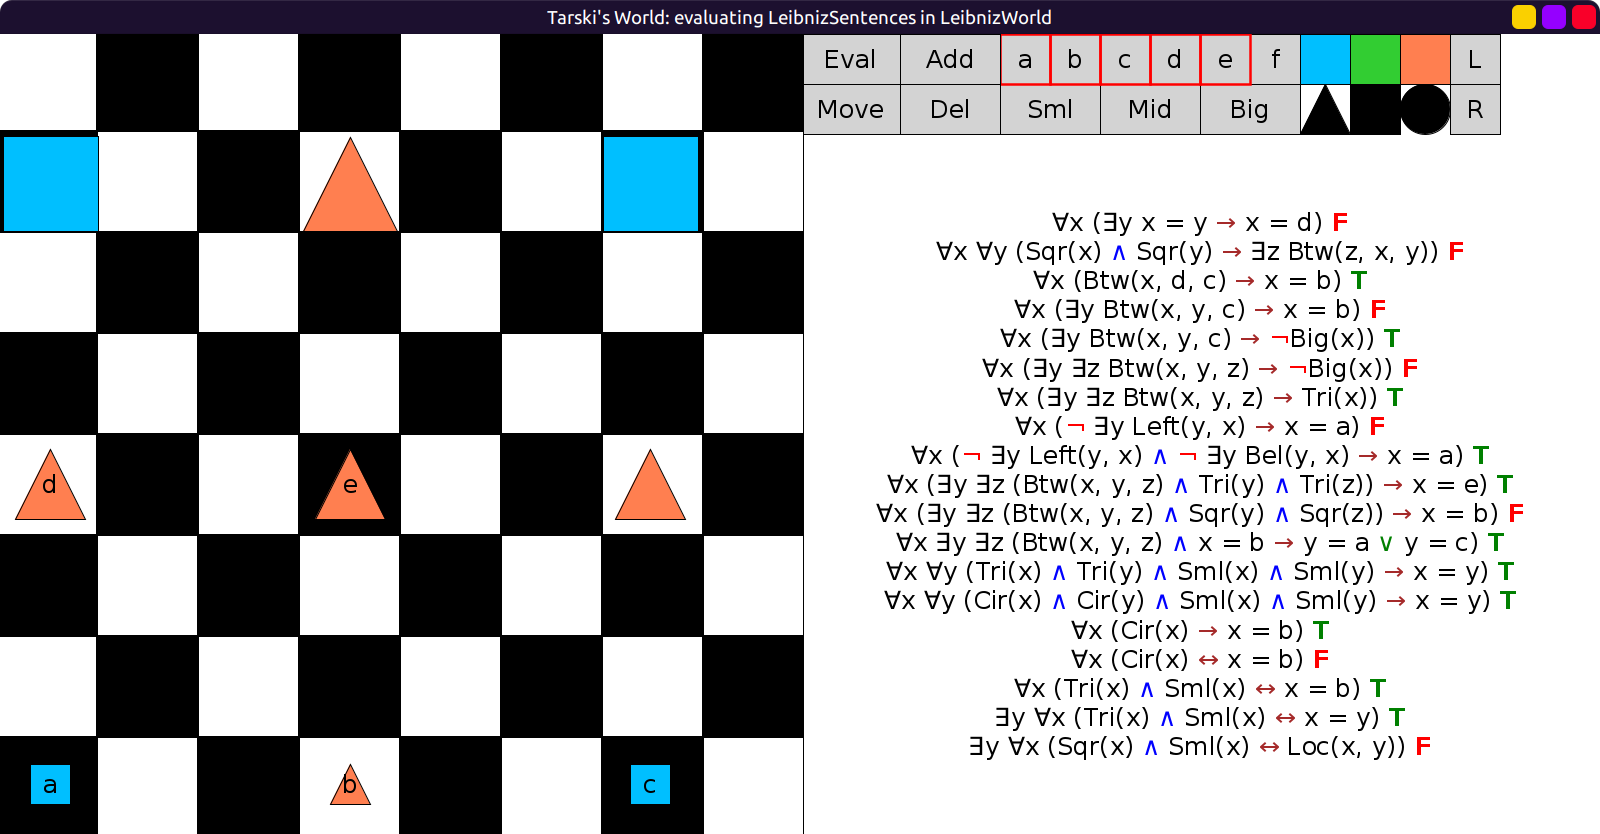
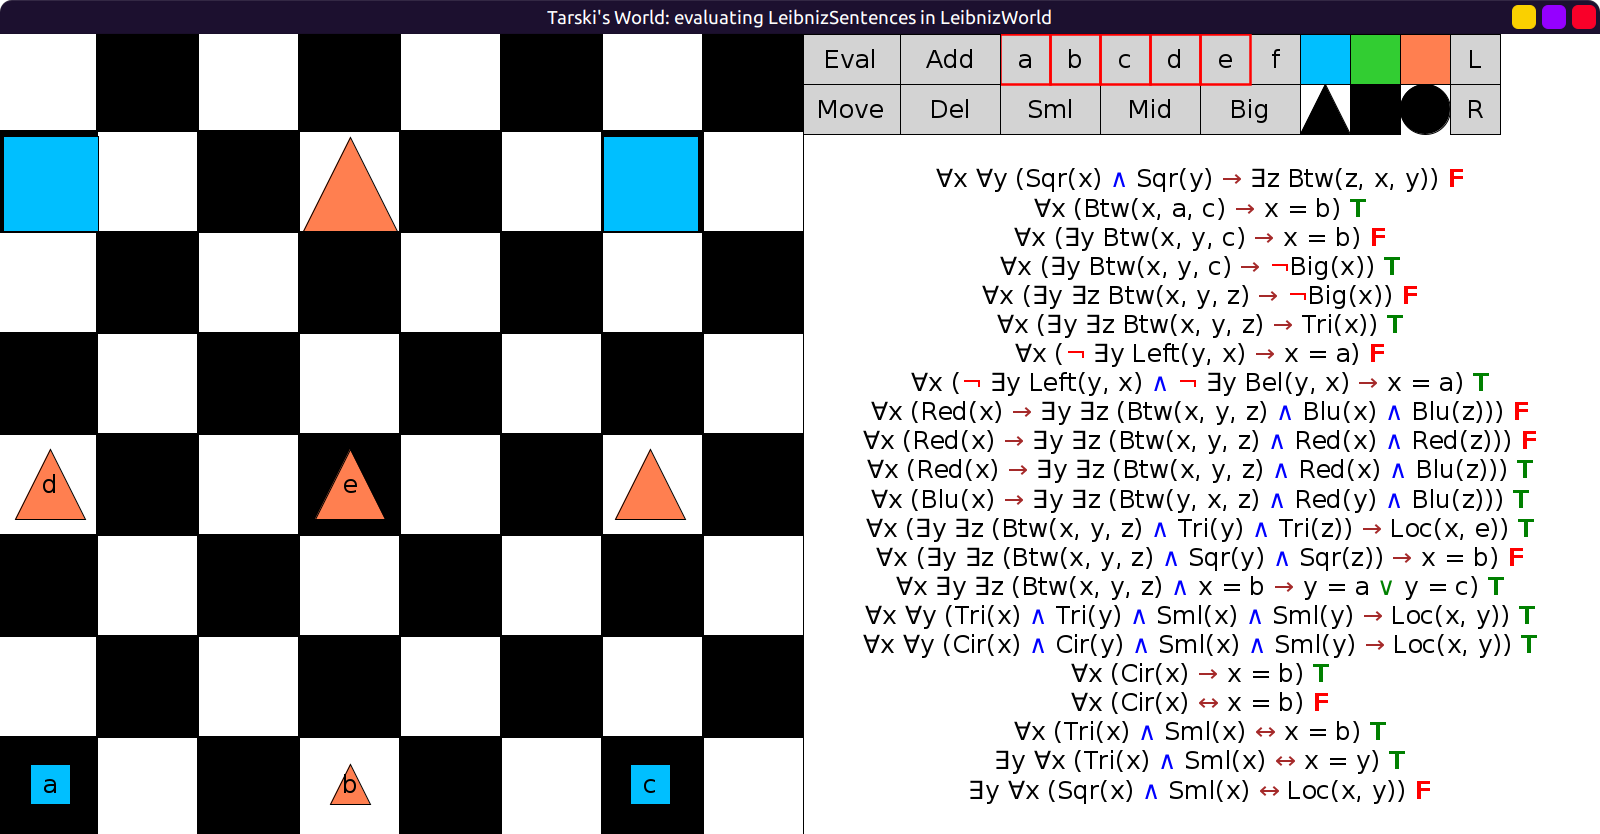
ex q20

Changed region(s): [[0.5312, 0.1871, 0.9688, 0.9664], [0.875, 0.1871, 0.9062, 0.2182]]

diff --git a/examples/quantifier-logic/20/solution.md b/examples/quantifier-logic/20/solution.md
@@ -1,1 +1,17 @@
 # 20 - solution
+
+Initial evaluation:
+
+![q20](q20.png)
+
+To fix the first sentence, you can add `x != y` or `¬Loc(x, y)`. Either one works:
+
+```scala
+fof"∀x ∀y ((Sqr(x) ∧ Sqr(y) ∧ x != y) → ∃z Btw(z, x, y))"
+```
+
+For the last sentence that says "there is exactly one large triangle" use:
+
+```scala
+fof"∃y ∀x ((Tri(x) ∧ Big(x)) ↔ Loc(x, y))"
+```

diff --git a/examples/quantifier-logic/20/README.md b/examples/quantifier-logic/20/README.md
@@ -1,6 +1,6 @@
 # 20 - Mixed quantifier sentences with identity
 
-- Open `LeibnizWorld` and use it to evaluate the sentences in `LeibnizSentences`.
+- Open `LeibnizWorld` to evaluate the sentences in `LeibnizSentences`.
 - Make sure you understand all the sentences and
   follow any instructions in the comments.
 - Save your modified sentences.
